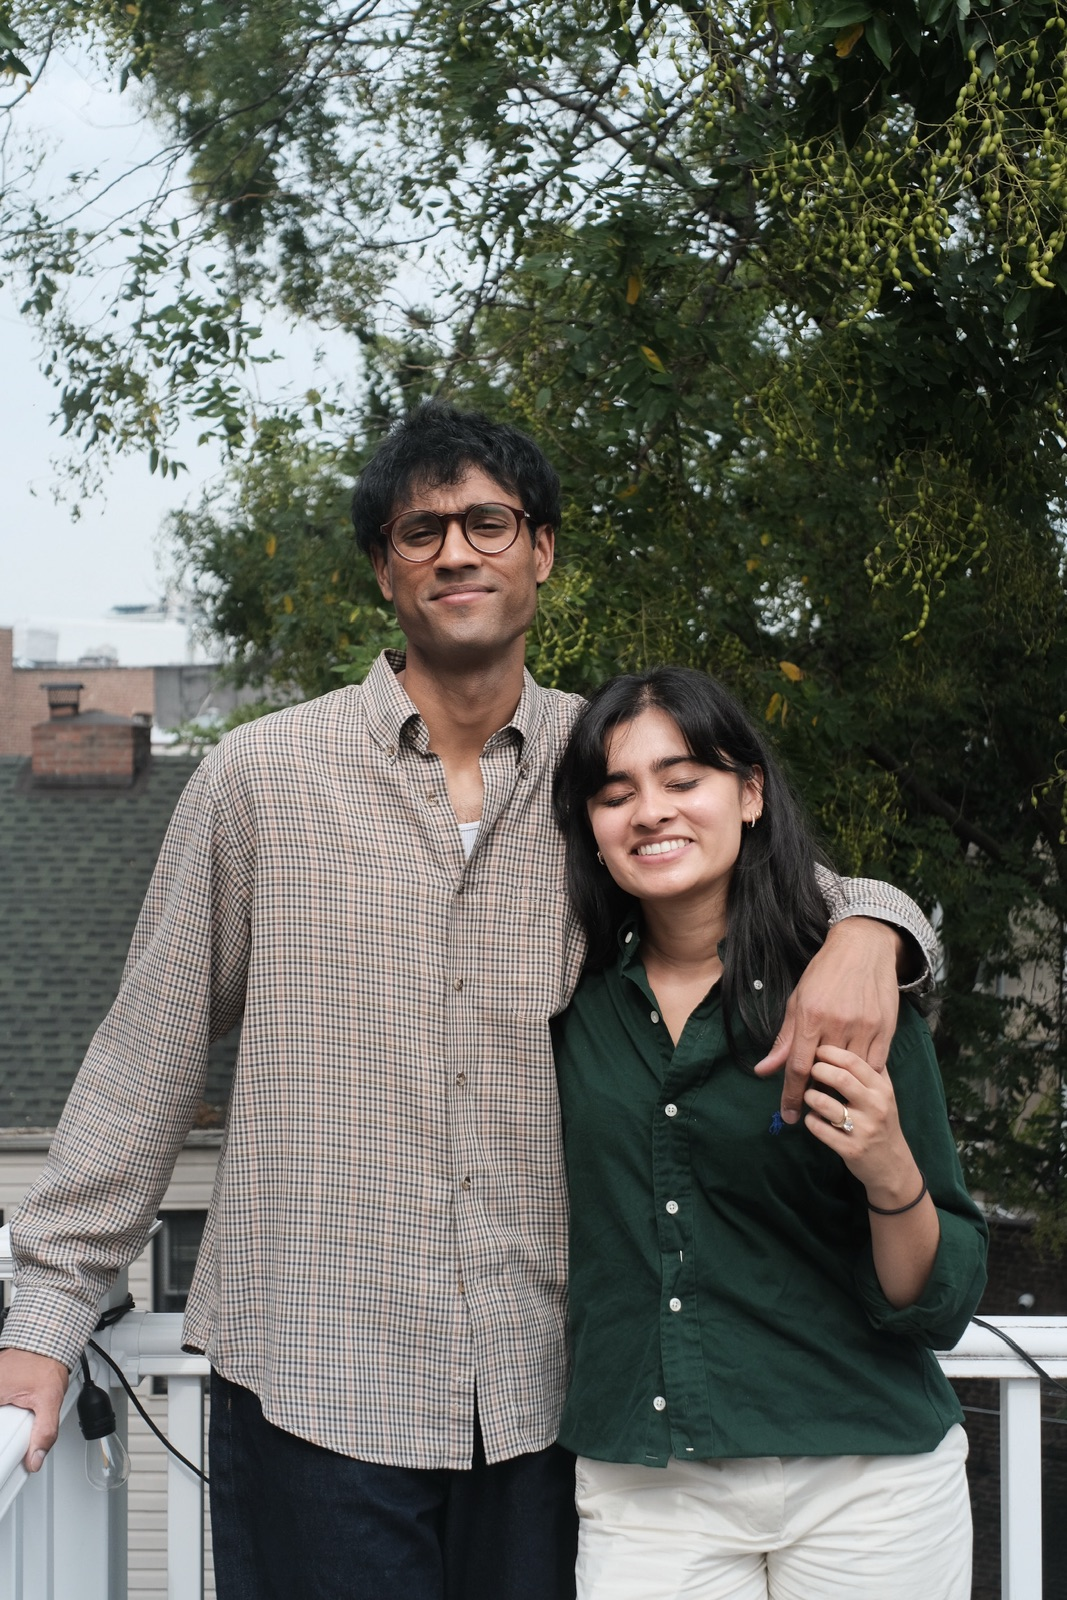
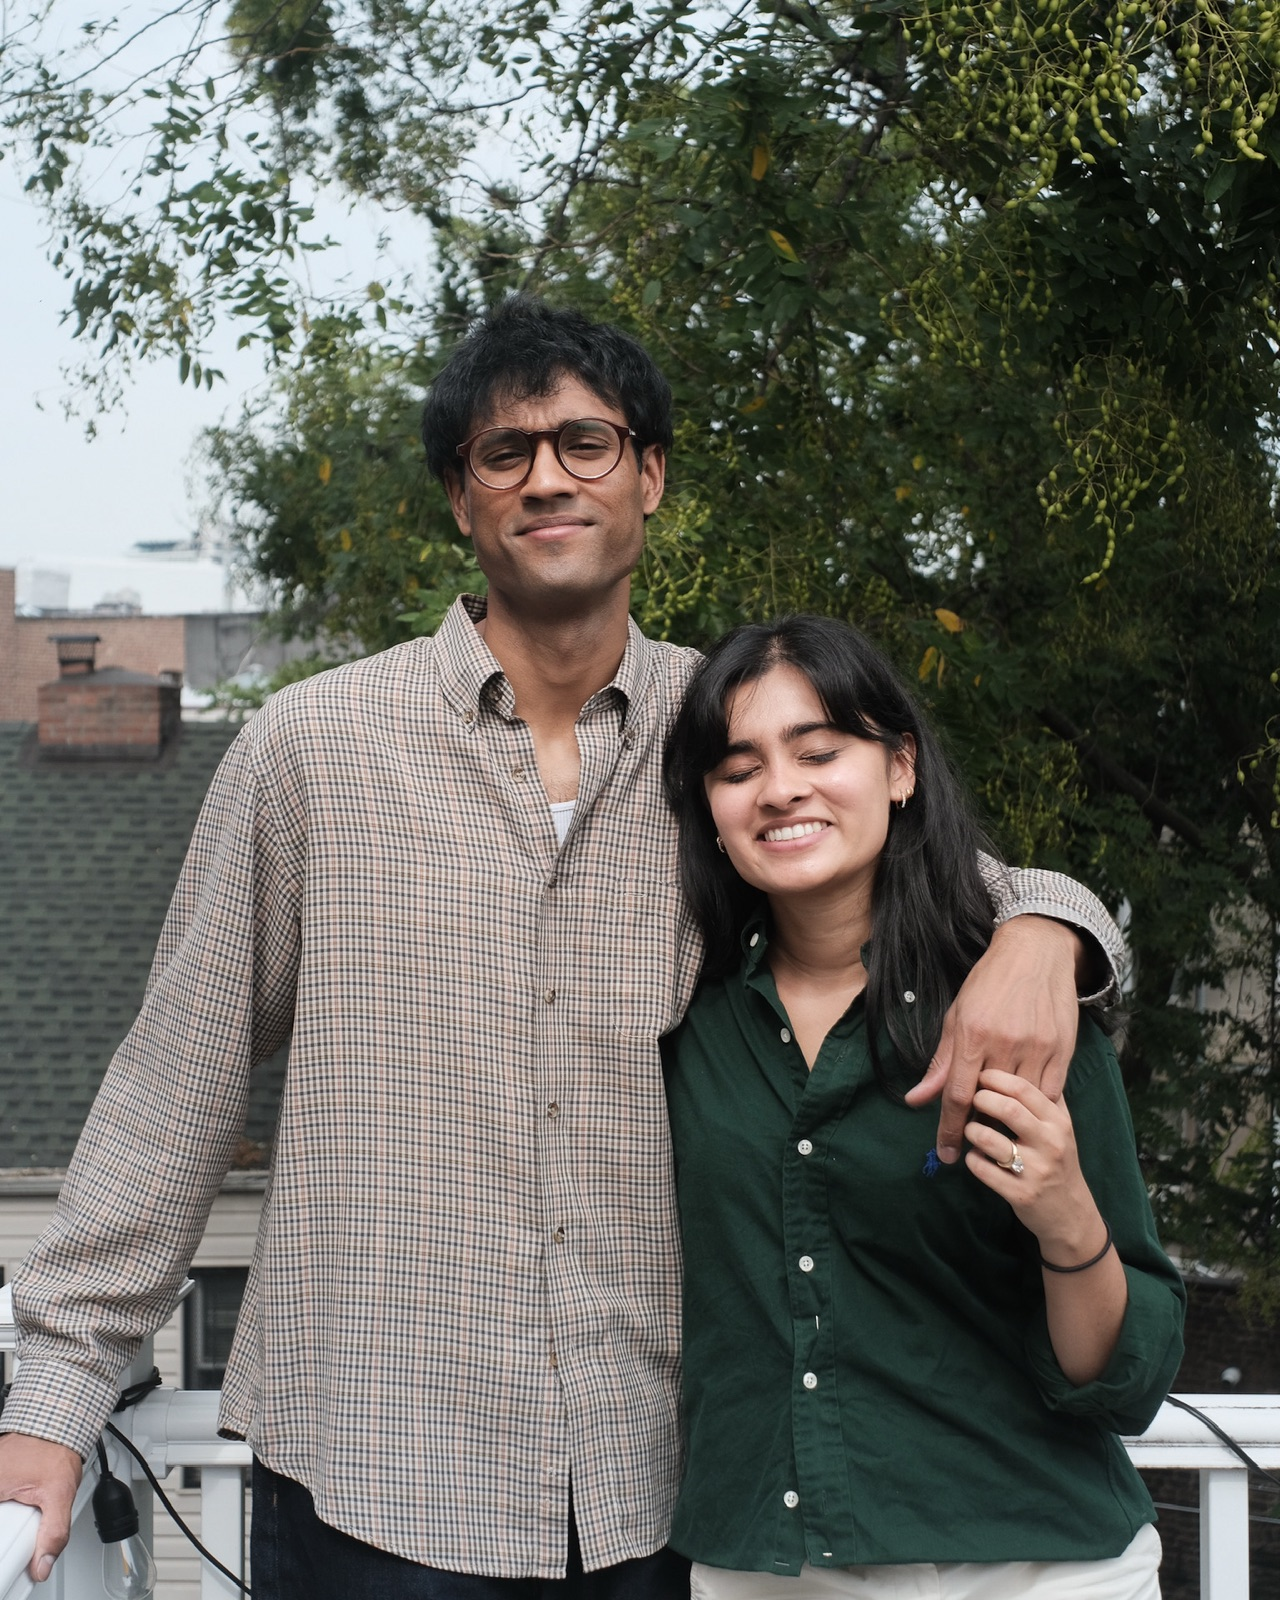
Our Story: the user's own 4:5 crops of photos 2 and 4 (no site cropping). RSVP Who's coming: full-width lines with a faint line between people, roomier lines and a wider Yes/No on iPads and laptops

diff --git a/src/index.css b/src/index.css
@@ -935,16 +935,10 @@ h2:hover .title-berry.mirrored {
   aspect-ratio: 4 / 3;
   border-radius: 20px;
 }
-/* A real photo: its own shape, uncropped... */
+/* A real photo: its own shape, uncropped. */
 .story-photo img.photo-main {
   aspect-ratio: auto;
   height: auto;
-}
-/* ...except a tall one: 4:5, trimmed only from the bottom. */
-.story-photo.tall img.photo-main {
-  aspect-ratio: 4 / 5;
-  object-fit: cover;
-  object-position: 50% 0%;
 }
 
 /* The first row has the text on the left and the photo on the right; every
@@ -5914,15 +5908,20 @@ img.nugget-photo {
 /* --- Who's coming: a line per person, with Yes / No on the right --- */
 .rsvp-toggle-list {
   display: grid;
-  max-width: 480px;
 }
+/* Each person's line runs the card's full width, Yes / No against the right
+   edge, with a faint line between people so it's clear which Yes / No
+   belongs to which name. */
 [data-design='honey'] .rsvp-toggle-row {
   display: grid;
   grid-template-columns: minmax(0, 1fr) auto;
   align-items: center;
   gap: 14px;
-  padding: 7px 0;
+  padding: 10px 0;
   color: var(--paper);
+}
+[data-design='honey'] .rsvp-toggle-row + .rsvp-toggle-row {
+  border-top: 1px solid rgba(202, 233, 255, 0.14);
 }
 .rsvp-toggle-name {
   font: 600 1rem/1.3 var(--font-ui);
@@ -5930,6 +5929,19 @@ img.nugget-photo {
 [data-design='honey'] .rsvp-toggle-row .rsvp-choice label {
   min-width: 4.6em;
   padding: 8px 14px;
+}
+/* iPads and laptops: roomier lines and a wider Yes / No. */
+@media (min-width: 700px) {
+  [data-design='honey'] .rsvp-toggle-row {
+    padding: 14px 0;
+  }
+  [data-design='honey'] .rsvp-toggle-row .rsvp-choice label {
+    min-width: 8em;
+    padding: 10px 18px;
+  }
+  .rsvp-toggle-name {
+    font-size: 1.05rem;
+  }
 }
 /* Not answered (after Send): a coral edge. */
 [data-design='honey'] .rsvp-toggle-row.unanswered .rsvp-choices {

diff --git a/src/sections/OurStorySection.jsx b/src/sections/OurStorySection.jsx
@@ -9,9 +9,8 @@ import Art from '../components/Art.jsx'
 
 // Edit this list to change the story. Each row: its paragraphs, and "photo"
 // (an image file in public/, e.g. 'assets/story/story-1.jpg'; empty = a
-// placeholder). Each photo shows in its own shape, uncropped, except
-// "tall: true" ones: shown 4:5, trimmed from the bottom (or, with "focus",
-// e.g. '50% 25%', a quarter of the trim from the top and the rest from the bottom).
+// placeholder). Each photo shows in its own shape, uncropped (crop the file
+// itself to change its shape).
 // For the pop-up photos, add photo="assets/story/…" to a <PhotoLink>.
 const rows = [
   {
@@ -34,7 +33,6 @@ const rows = [
   },
   {
     photo: 'assets/story/story-2.jpg',
-    tall: true,
     alt: 'Soneri and Akhil',
     paragraphs: [
       <>
@@ -73,8 +71,6 @@ const rows = [
   },
   {
     photo: 'assets/story/story-4.jpg',
-    tall: true,
-    focus: '50% 25%', // trim a little off the top too, so his face isn't at the edge
     alt: 'Soneri and Akhil',
     paragraphs: [<>The many adventures of the Blueberry Babes continue…</>],
   },
@@ -96,7 +92,7 @@ export default function OurStorySection() {
         {rows.map((row, index) => (
           // Each row fades in as you scroll to it.
           <ScrollReveal key={index} className="story-moment">
-            <PhotoSlot src={row.photo} label="Photo" alt={row.alt} className={`story-photo${row.tall ? ' tall' : ''}`} focus={row.focus} />
+            <PhotoSlot src={row.photo} label="Photo" alt={row.alt} className="story-photo" />
             <div className="story-text">
               {row.paragraphs.map((paragraph, i) => (
                 <p key={i}>{paragraph}</p>

diff --git a/src/components/PhotoSlot.jsx b/src/components/PhotoSlot.jsx
@@ -8,14 +8,13 @@
 // of the spot it's shown in, width ÷ height): a photo much narrower or wider
 // than its spot (e.g. a portrait photo in a landscape opening) is shown
 // whole, centered on a soft, blurred copy of itself, instead of being cropped.
-// Optional "focus": which part of a cropped photo to keep (e.g. '50% 25%').
 import { photoUrl } from './photoUrl.js'
 
 // How different the shapes must be before the photo is shown whole instead
 // of cropped: 1.35 = the photo would lose more than about a quarter.
 const SHOW_WHOLE_PAST = 1.35
 
-export default function PhotoSlot({ src, alt = '', label = 'Photo', tilt = 0, className = '', width, height, frame, focus }) {
+export default function PhotoSlot({ src, alt = '', label = 'Photo', tilt = 0, className = '', width, height, frame }) {
   const mismatch = width && height && frame ? Math.max(frame / (width / height), width / height / frame) : 1
   const whole = src && mismatch > SHOW_WHOLE_PAST
   return (
@@ -23,7 +22,7 @@ export default function PhotoSlot({ src, alt = '', label = 'Photo', tilt = 0, cl
       {src ? (
         <>
           {whole && <img className="photo-backdrop" src={photoUrl(src)} alt="" aria-hidden="true" loading="lazy" decoding="async" />}
-          <img className="photo-main" src={photoUrl(src)} alt={alt} loading="lazy" decoding="async" style={focus ? { objectPosition: focus } : undefined} />
+          <img className="photo-main" src={photoUrl(src)} alt={alt} loading="lazy" decoding="async" />
         </>
       ) : (
         <div className="photo-placeholder">{label}</div>
